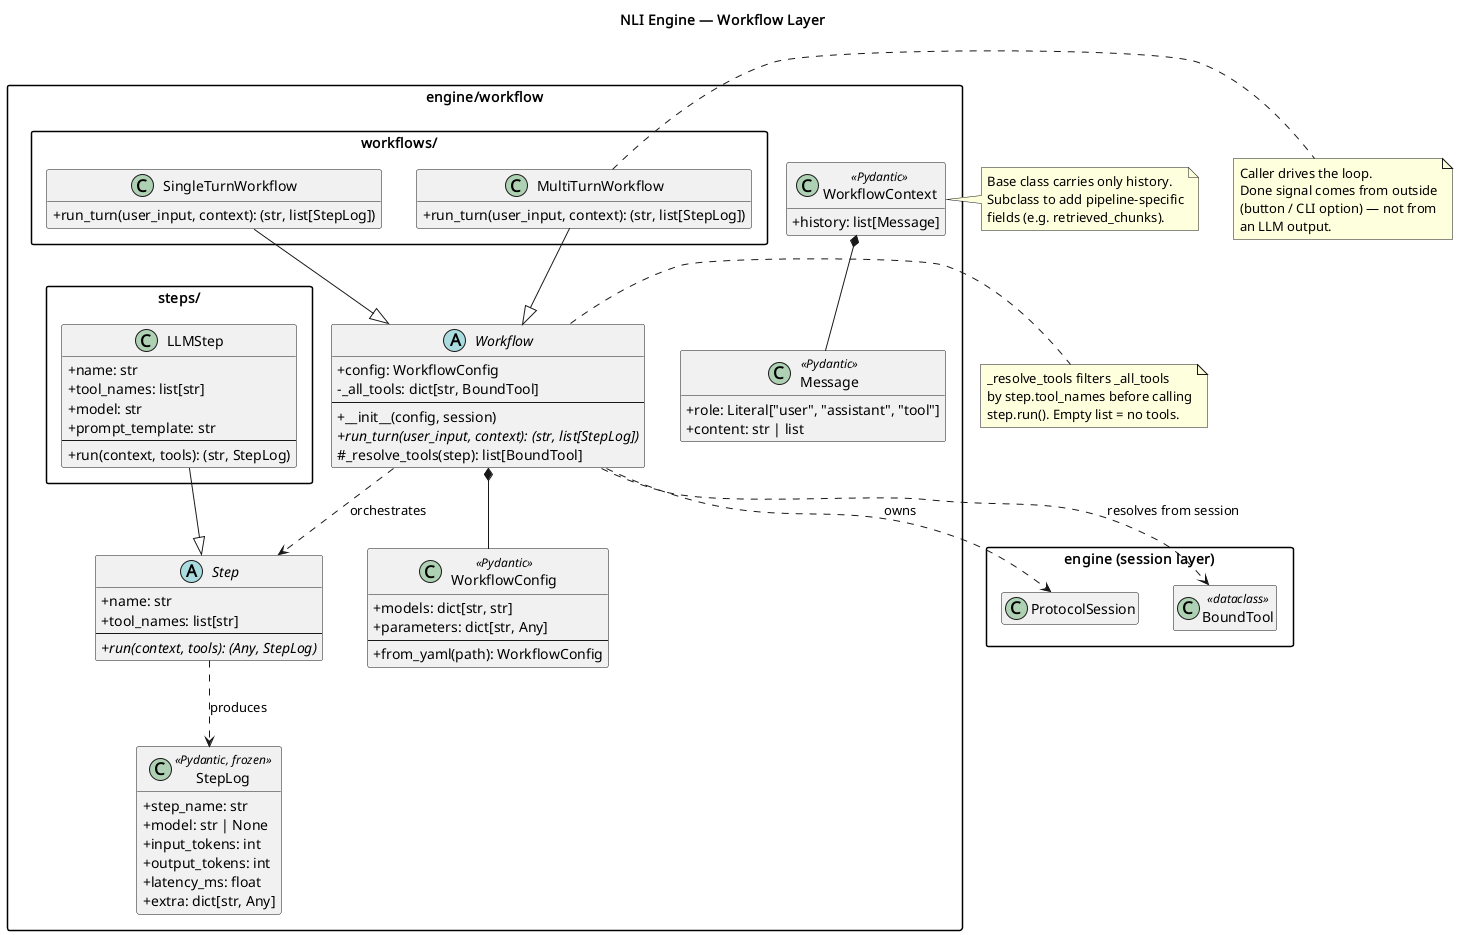
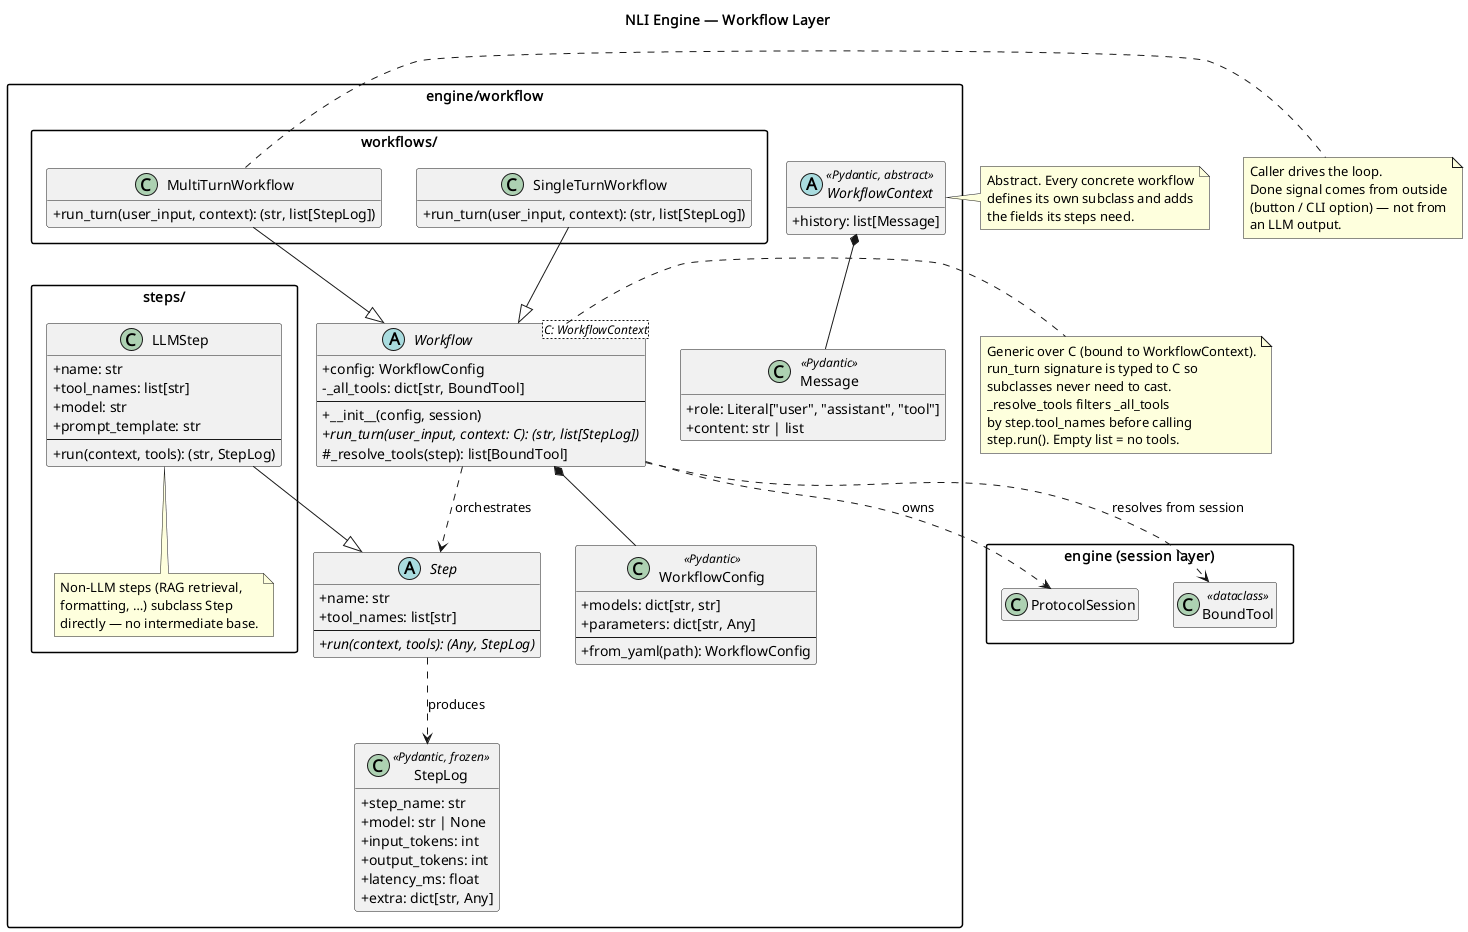
docs: refine workflow layer design with abstract context and generics

diff --git a/src/nli_engine/engine/session.py b/src/nli_engine/engine/session.py
@@ -73,10 +73,6 @@ class ProtocolSession:
             call=call,
         )
 
-    # ------------------------------------------------------------------ #
-    # Inspection — used by planner/conversation loop, not LLM tools
-    # ------------------------------------------------------------------ #
-
     def get_requirements(self) -> list[str]:
         """Return currently unfulfilled requirement strings."""
         api = self._apis.setdefault(

diff --git a/docs/design/workflow_layer/workflow_layer.md b/docs/design/workflow_layer/workflow_layer.md
@@ -49,7 +49,7 @@ parameters:
 
 ### `engine/workflow/base.py`
 
-Three abstractions live here.
+Four abstractions live here.
 
 **`Message`** — one message in LLM API format.
 
@@ -58,13 +58,13 @@ Three abstractions live here.
 | `role`    | `Literal["user", "assistant", "tool"]` |
 | `content` | `str \| list`                          |
 
-**`WorkflowContext`** — Pydantic model; the shared mutable state. The base class carries only `history`. Subclasses add pipeline-specific fields (e.g. `retrieved_chunks: list[str]` for a RAG workflow).
+**`WorkflowContext`** — abstract Pydantic model; the shared mutable state. Never instantiated directly. Every concrete workflow defines its own subclass and adds the fields its steps need (e.g. `retrieved_chunks: list[str]` for a RAG workflow). The base carries only `history`.
 
 | field     | type            | meaning                                         |
 | --------- | --------------- | ----------------------------------------------- |
 | `history` | `list[Message]` | full conversation history, never truncated here |
 
-**`Step`** — abstract base. Steps receive the full context and only the tools they declared.
+**`Step`** — abstract base for all step types. Steps receive the full context and only the tools they declared. Non-LLM steps (retrieval, formatting, validation, …) subclass `Step` directly. `LLMStep` (see below) is one concrete specialisation — there is no intermediate `DeterministicStep` base because it would add no shared behaviour.
 
 | member                | type        | meaning                                         |
 | --------------------- | ----------- | ----------------------------------------------- |
@@ -72,20 +72,20 @@ Three abstractions live here.
 | `tool_names`          | `list[str]` | tools this step may call; empty list = no tools |
 | `run(context, tools)` | abstract    | returns `(output, StepLog)`                     |
 
-**`Workflow`** — abstract base. Owns `WorkflowConfig` and a reference to `ProtocolSession`.
+**`Workflow[C]`** — abstract base, generic over `C` (bound to `WorkflowContext`). The type parameter lets each concrete workflow declare its own context type in the signature of `run_turn`, so subclasses never need to cast.
 
-| member                          | type                   | meaning                                   |
-| ------------------------------- | ---------------------- | ----------------------------------------- |
-| `config`                        | `WorkflowConfig`       | validated at construction                 |
-| `_all_tools`                    | `dict[str, BoundTool]` | all tools from the session, keyed by name |
-| `run_turn(user_input, context)` | abstract               | returns `(response_text, list[StepLog])`  |
-| `_resolve_tools(step)`          | protected              | filters `_all_tools` by `step.tool_names` |
+| member                             | type                   | meaning                                   |
+| ---------------------------------- | ---------------------- | ----------------------------------------- |
+| `config`                           | `WorkflowConfig`       | validated at construction                 |
+| `_all_tools`                       | `dict[str, BoundTool]` | all tools from the session, keyed by name |
+| `run_turn(user_input, context: C)` | abstract               | returns `(response_text, list[StepLog])`  |
+| `_resolve_tools(step)`             | protected              | filters `_all_tools` by `step.tool_names` |
 
 ### `engine/workflow/steps/`
 
-| file     | class     | role                                                                                                   |
-| -------- | --------- | ------------------------------------------------------------------------------------------------------ |
-| `llm.py` | `LLMStep` | calls an LLM with a prompt template and a tool subset; the step decides which history slice to forward |
+| file     | class     | role                                                                                                                      |
+| -------- | --------- | ------------------------------------------------------------------------------------------------------------------------- |
+| `llm.py` | `LLMStep` | subclasses `Step`; calls an LLM with a prompt template and a tool subset; the step decides which history slice to forward |
 
 ### `engine/workflow/workflows/`
 
@@ -93,6 +93,15 @@ Three abstractions live here.
 | ---------------- | -------------------- | ------------------------------------------------------------------------ |
 | `multi_turn.py`  | `MultiTurnWorkflow`  | runs the step sequence on every `run_turn` call; caller loops until done |
 | `single_turn.py` | `SingleTurnWorkflow` | runs the step sequence once and is not called again                      |
+
+## Step hierarchy
+
+```
+Step  (abstract — all step types)
+ ├── LLMStep          calls an LLM; has model + prompt_template
+ ├── RAGStep          retrieval; subclasses Step directly
+ └── …                any other deterministic step
+```
 
 ## Tool visibility
 
@@ -115,7 +124,7 @@ config  = WorkflowConfig.from_yaml("workflow.yaml")
 session = ProtocolSession(build_client(), name="My Study")
 wf      = MultiTurnWorkflow(config, session)
 
-context = WorkflowContext(history=[])
+context = MultiTurnContext(history=[])
 while not done:
     user_input = input("> ")
     response, logs = wf.run_turn(user_input, context)
